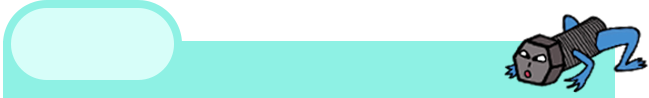
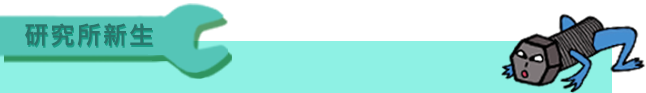
修正按鈕BUG 更換開頭圖片

diff --git a/public/js/necessity/necessity.js b/public/js/necessity/necessity.js
@@ -56,16 +56,16 @@ $(function(){
             $('.ContentDownYR').css({  
             	
                 position: "absolute",
-                top:"10px",
-                left:"10px"
+                 top:"10px"
+                // left:"10px"
                 
             });
         } else {
              $('.ContentDownYR').css({
              	
                 position: "fixed",
-                top: "95px",
-                left:"173px"
+                top: "95px"
+                // left:"173px"
                 
              });
         }
@@ -76,15 +76,15 @@ $(function(){
             $('.ContentDownYF').css({  
                 
                 position: "absolute",
-                top:"10px",
-                left:"10px"
+                top:"15px"
+                // left:"10px"
             });
         } else {
              $('.ContentDownYF').css({
                 
                 position: "fixed",
-                top: "10px",
-                left:"173px"
+                top: "30px"
+                // left:"173px"
 
              });
         }

diff --git a/public/css/necessity_image.css b/public/css/necessity_image.css
@@ -56,6 +56,7 @@
 
 .ContentDownYR{
 	width: 105px;
+  margin-left: 15px;
 }
 .Left1R{
 	position: relative;
@@ -137,6 +138,7 @@
 
 .ContentDownYF{
 	width: 135px;
+  margin-left: 10px;
 }
 
 .Left1F{
@@ -234,8 +236,8 @@
 .Research1{
   position: relative;
   margin-top:0px; 
-  margin-left:0px;
-  width: 850px;
+  margin-left:4px;
+  width: 846px;
 }
 
 .PaddingMid{

diff --git a/public/css/necessity_index.css b/public/css/necessity_index.css
@@ -100,6 +100,7 @@
 	font-size:15px;
 	font-weight: 100;
 	line-height:25px; 
+	font-family: 微軟正黑體;
 }
 
 .formStyleUpSide

diff --git a/app/views/necessity/necessity_index.blade.php b/app/views/necessity/necessity_index.blade.php
@@ -239,7 +239,7 @@
 				  		@foreach($necessityDownloadData as $necessitydownloaddata)
 							
 
-							@if( $n<=10 )		
+							@if( $n <= 10 )		
 						 	
 						 		<font size="5" face="微軟正黑體">{{	link_to_route('downloadReturn', $necessitydownloaddata -> name , array( 'id' =>  $necessitydownloaddata -> id ))}}</font>
 
